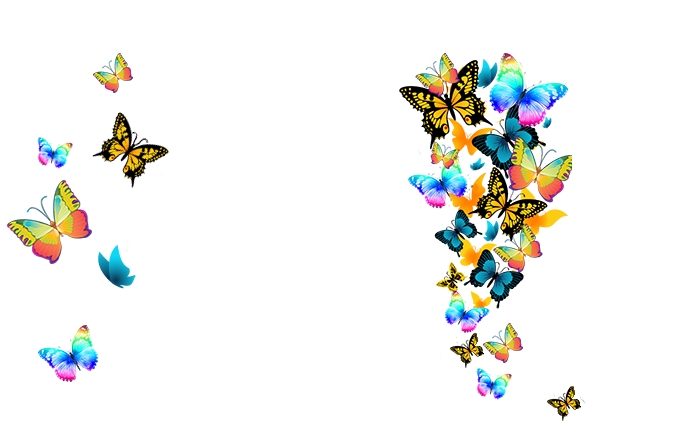
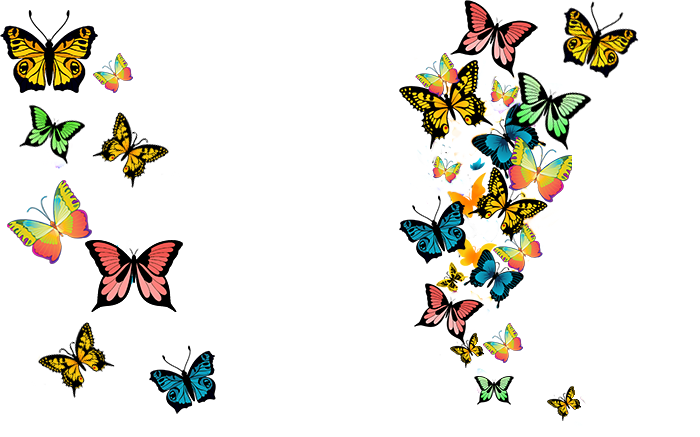
Marco del video y mariposas

diff --git a/Aprendo con Molly/colores.xaml b/Aprendo con Molly/colores.xaml
@@ -1647,7 +1647,7 @@
         		<ImageBrush ImageSource="floress.png"/>
         	</Canvas.Background>
 
-			<Rectangle x:Name="elipseVideo" Height="391.982" Width="436" Canvas.Left="229.423" Canvas.Top="142.598" RadiusY="102.982" RadiusX="102.982" Visibility="Hidden">
+			<Rectangle x:Name="elipseVideo" Height="391.982" Width="436" Canvas.Left="229.423" Canvas.Top="142.598" Visibility="Hidden">
 				<Rectangle.Fill>
     				<VisualBrush TileMode="None">
     					<VisualBrush.Visual>   					
@@ -1656,7 +1656,12 @@
     				</VisualBrush>
 				</Rectangle.Fill>
 			</Rectangle>
-        	<StackPanel x:Name="mariposas" RenderTransformOrigin="0.5,0.5" Height="579.408" Canvas.Left="88.567" Canvas.Top="18.495" Width="865.672" Visibility="Hidden">
+        	<Canvas x:Name="marcoVideo" Height="666" Canvas.Left="16.008" Canvas.Top="-32" Width="974.79" Visibility="Hidden">
+        		<Canvas.Background>
+        			<ImageBrush ImageSource="marco.png"/>
+        		</Canvas.Background>
+        	</Canvas>
+        	<StackPanel x:Name="mariposas" RenderTransformOrigin="0.5,0.5" Height="589.338" Canvas.Left="74.567" Canvas.Top="18.467" Width="885.672" Visibility="Hidden">
         		<StackPanel.RenderTransform>
         			<TransformGroup>
         				<ScaleTransform/>
@@ -1666,7 +1671,7 @@
         			</TransformGroup>
         		</StackPanel.RenderTransform>
         		<StackPanel.Background>
-        			<ImageBrush ImageSource="ma.png"/>
+        			<ImageBrush ImageSource="aa.png"/>
         		</StackPanel.Background>
         	</StackPanel>
 
